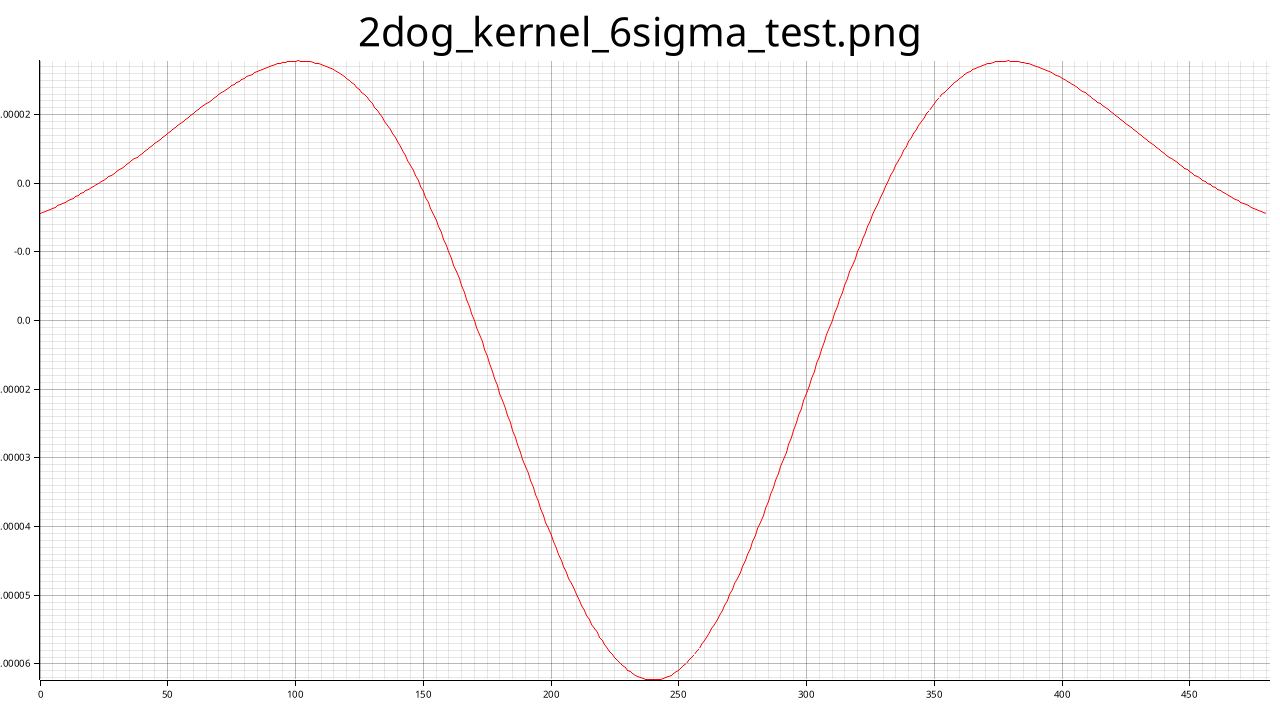
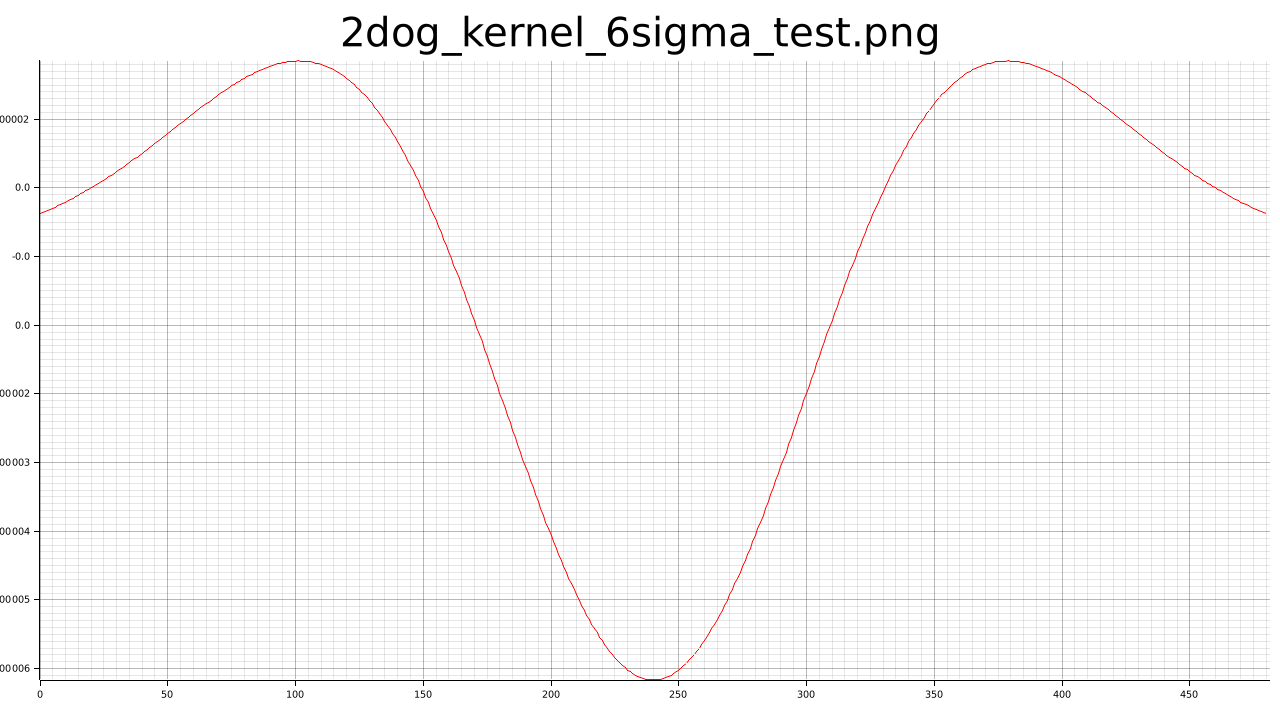
stuff

Changed region(s): [[0.0, 0.0, 1.0, 0.9472]]

diff --git a/lib/signal-pipeline/src/peak_detection.rs b/lib/signal-pipeline/src/peak_detection.rs
@@ -1,20 +1,27 @@
 use core::f64;
-use std::f64::consts;
+use std::{
+    f64::consts,
+    ops::{Sub, SubAssign},
+};
 
+use itertools::Itertools;
 use nalgebra::DVector;
 use statrs::statistics::Statistics;
 
-const PEAK_SIGMA_THRESHOLD_MULT: f64 = 4.0;
+const PEAK_SIGMA_THRESHOLD_MULT: f64 = -2.;
+const GROUPING_CONSTANT: f64 = 1.5;
+const MIN_GROUP_RADIUS: f64 = 20.0;
 
 pub trait PeakDetector {
     fn detect_peaks(&self, signal: &DVector<f64>) -> Vec<Peak>;
 }
 
-#[derive(Debug)]
+#[derive(Debug, Clone)]
 pub struct Peak {
     pub width: f64,
     pub height: f64,
     pub prominence: f64,
+    pub pos: f64,
 }
 
 /// Double Derivative of Gaussian peak detector (mexican hat)
@@ -42,11 +49,54 @@ fn generate_2dog_kernel(scale: f64) -> DVector<f64> {
 
     (0..n).for_each(|v| kernel[v] = gauss_2nd_derivative(scale, xcord(v)));
 
+    let mu = kernel.mean();
+
+    kernel.iter_mut().for_each(|v| v.sub_assign(mu));
+
     kernel
 }
 
-fn find_minima(data: &DVector<f64>, threshold: f64) -> Vec<usize> {
-    todo!()
+fn find_minima(data: &DVector<f64>, threshold: f64) -> Vec<(usize, f64)> {
+    data.iter()
+        .enumerate()
+        .tuple_windows()
+        .filter_map(|((_, &l), (mi, &m), (_, &r))| {
+            if m < l && m < r && m <= threshold {
+                Some((mi, m))
+            } else {
+                None
+            }
+        })
+        .collect()
+}
+
+fn combine_peaks(peaks: &[Peak]) -> Peak {
+    let mut weighted_width = 0.0;
+    let mut weighted_height = 0.0;
+    let mut weighted_pos = 0.0;
+    let mut total_prominence = 0.0;
+
+    let mut mp = 0.;
+    let mut best_pos = 0.;
+
+    for p in peaks {
+        weighted_width += p.width * p.prominence;
+        weighted_height += p.height * p.prominence;
+        weighted_pos += (p.pos + 0.5 * p.width) * p.prominence;
+        total_prominence += p.prominence;
+
+        if p.prominence > mp {
+            mp = p.prominence;
+            best_pos = p.pos
+        }
+    }
+
+    Peak {
+        width: weighted_width / total_prominence,
+        height: weighted_height / total_prominence,
+        pos: best_pos,
+        prominence: total_prominence,
+    }
 }
 
 impl DDOGPeakDetector {
@@ -57,26 +107,75 @@ impl DDOGPeakDetector {
 
 impl PeakDetector for DDOGPeakDetector {
     fn detect_peaks(&self, signal: &DVector<f64>) -> Vec<Peak> {
+        let threshold = signal.view_range(0..250, 0).std_dev() * PEAK_SIGMA_THRESHOLD_MULT;
+
         let conv_minima = self
             .scales
             .iter()
-            .map(|&scale| signal.convolve_full(generate_2dog_kernel(scale)))
+            .map(|&scale| signal.convolve_same(generate_2dog_kernel(scale)))
             .map(|conv| {
-                let threshold = conv.std_dev() * PEAK_SIGMA_THRESHOLD_MULT;
-
                 find_minima(&conv, threshold)
+                    .into_iter()
+                    .collect::<Vec<(usize, f64)>>()
             })
-            .collect::<Vec<Vec<usize>>>();
+            .collect::<Vec<Vec<(usize, f64)>>>();
 
-        //move conv minimas to coloumnar order then find best match among scales
+        let mut peaks: Vec<Peak> = conv_minima
+            .into_iter()
+            .enumerate()
+            .flat_map(|(size_index, vec)| {
+                vec.into_iter().map(move |(pos, prominence)| Peak {
+                    width: self.scales[size_index],
+                    height: signal[pos],
+                    prominence: -prominence,
+                    pos: pos as f64,
+                })
+            })
+            .collect();
 
-        todo!()
+        let mut new_peaks: Vec<Peak> = vec![];
+
+        for peak in &peaks {
+            println!("{:?}", peak);
+        }
+
+        while peaks.len() > 0 {
+            let mut queue = vec![peaks.remove(0)];
+            let mut group = vec![];
+
+            while let Some(ref_peak) = queue.pop() {
+                let mut i = 0;
+
+                while i < peaks.len() {
+                    let p = &peaks[i];
+
+                    let dist = p.pos.sub(&ref_peak.pos).abs();
+
+                    if dist
+                        < (GROUPING_CONSTANT * 0.5 * (ref_peak.width + p.width))
+                            .max(MIN_GROUP_RADIUS)
+                    {
+                        queue.push(peaks.remove(i));
+                    } else {
+                        i += 1;
+                    }
+                }
+
+                group.push(ref_peak);
+            }
+
+            new_peaks.push(combine_peaks(&group));
+        }
+
+        new_peaks
     }
 }
 
 #[cfg(test)]
 mod tests {
-    use crate::peak_detection::generate_2dog_kernel;
+    use plotters::style::{GREEN, RED};
+
+    use crate::peak_detection::{DDOGPeakDetector, PeakDetector, generate_2dog_kernel};
 
     #[test]
     fn print_2dog_kernel() {
@@ -86,5 +185,23 @@ mod tests {
         assert_eq!(kernel.argmin().0, kernel.len() / 2);
 
         crate::simple_graph_vec("test-img/2dog_kernel_6sigma_test.png", &kernel);
+    }
+
+    #[test]
+    fn test_peak_detection() {
+        let data = crate::io::read_series("../../gc-data/R16443 - Jun 08 2025, 09;24.fusion-data")
+            .unwrap();
+
+        let convolution = data.convolve_same(generate_2dog_kernel(40.)) * 100.;
+
+        let peaks = DDOGPeakDetector::new(vec![5., 10., 20., 40., 80.]).detect_peaks(&data);
+
+        crate::simple_graph_vecs_with_peaks(
+            "test-img/2dog_peaks_test.png",
+            &[(&data, &RED), (&convolution, &GREEN)],
+            &peaks,
+        );
+
+        panic!("give me stdout bitch");
     }
 }

diff --git a/lib/signal-pipeline/src/lib.rs b/lib/signal-pipeline/src/lib.rs
@@ -4,10 +4,12 @@ use nalgebra::DVector;
 use nearly::assert_nearly;
 use plotters::{
     chart::ChartBuilder,
-    prelude::{BitMapBackend, IntoDrawingArea, PathElement},
-    series::LineSeries,
-    style::{IntoFont, RED, WHITE},
+    prelude::{BitMapBackend, IntoDrawingArea},
+    series::{DashedLineSeries, LineSeries},
+    style::{BLUE, IntoFont, RED, RGBColor, WHITE, full_palette::ORANGE},
 };
+
+use crate::peak_detection::Peak;
 
 pub mod io;
 pub mod peak_detection;
@@ -17,6 +19,76 @@ pub fn nearly_eq(a: &DVector<f64>, b: &DVector<f64>) {
     a.iter()
         .zip(b.iter())
         .for_each(|(&a, &b)| assert_nearly!(a == b));
+}
+
+pub fn simple_graph_vecs_with_peaks(
+    path: impl AsRef<Path>,
+    data: &[(&DVector<f64>, &RGBColor)],
+    peaks: &[Peak],
+) {
+    let min = data
+        .iter()
+        .map(|v| v.0.min())
+        .reduce(|a, b| a.min(b))
+        .unwrap();
+
+    let max = data
+        .iter()
+        .map(|v| v.0.max())
+        .reduce(|a, b| a.max(b))
+        .unwrap();
+
+    let len = data.iter().map(|v| v.0.len()).max().unwrap();
+
+    let path = path.as_ref();
+    let root = BitMapBackend::new(path, (3840, 2160)).into_drawing_area();
+    root.fill(&WHITE).unwrap();
+    let mut chart = ChartBuilder::on(&root)
+        .caption(
+            path.components()
+                .last()
+                .unwrap()
+                .as_os_str()
+                .to_string_lossy(),
+            ("sans-serif", 50).into_font(),
+        )
+        .margin(10)
+        .x_label_area_size(30)
+        .y_label_area_size(30)
+        .build_cartesian_2d(0..len, min..max)
+        .unwrap();
+
+    chart.configure_mesh().draw().unwrap();
+
+    for (vec, color) in data {
+        chart
+            .draw_series(LineSeries::new(vec.iter().copied().enumerate(), color))
+            .unwrap();
+    }
+
+    for peak in peaks {
+        chart
+            .draw_series(LineSeries::new(
+                [(peak.pos as usize, 0.0), (peak.pos as usize, peak.height)].into_iter(),
+                &BLUE,
+            ))
+            .unwrap();
+
+        chart
+            .draw_series(DashedLineSeries::new(
+                [
+                    ((peak.pos - peak.width / 2.) as usize, peak.height / 2.),
+                    ((peak.pos + peak.width / 2.) as usize, peak.height / 2.),
+                ]
+                .into_iter(),
+                4,
+                1,
+                ORANGE.into(),
+            ))
+            .unwrap();
+    }
+
+    root.present().unwrap();
 }
 
 pub fn simple_graph_vec(path: impl AsRef<Path>, data: &DVector<f64>) {
@@ -43,6 +115,56 @@ pub fn simple_graph_vec(path: impl AsRef<Path>, data: &DVector<f64>) {
     chart
         .draw_series(LineSeries::new(data.iter().copied().enumerate(), &RED))
         .unwrap();
+
+    root.present().unwrap();
+}
+
+pub fn simple_graph_vec_with_peaks(path: impl AsRef<Path>, data: &DVector<f64>, peaks: &[Peak]) {
+    let path = path.as_ref();
+    let root = BitMapBackend::new(path, (3840, 2160)).into_drawing_area();
+    root.fill(&WHITE).unwrap();
+    let mut chart = ChartBuilder::on(&root)
+        .caption(
+            path.components()
+                .last()
+                .unwrap()
+                .as_os_str()
+                .to_string_lossy(),
+            ("sans-serif", 50).into_font(),
+        )
+        .margin(10)
+        .x_label_area_size(30)
+        .y_label_area_size(30)
+        .build_cartesian_2d(0..data.len(), data.min()..data.max())
+        .unwrap();
+
+    chart.configure_mesh().draw().unwrap();
+
+    chart
+        .draw_series(LineSeries::new(data.iter().copied().enumerate(), &RED))
+        .unwrap();
+
+    for peak in peaks {
+        chart
+            .draw_series(LineSeries::new(
+                [(peak.pos as usize, 0.0), (peak.pos as usize, peak.height)].into_iter(),
+                &BLUE,
+            ))
+            .unwrap();
+
+        chart
+            .draw_series(DashedLineSeries::new(
+                [
+                    ((peak.pos - peak.width / 2.) as usize, peak.height / 2.),
+                    ((peak.pos + peak.width / 2.) as usize, peak.height / 2.),
+                ]
+                .into_iter(),
+                4,
+                1,
+                ORANGE.into(),
+            ))
+            .unwrap();
+    }
 
     root.present().unwrap();
 }
